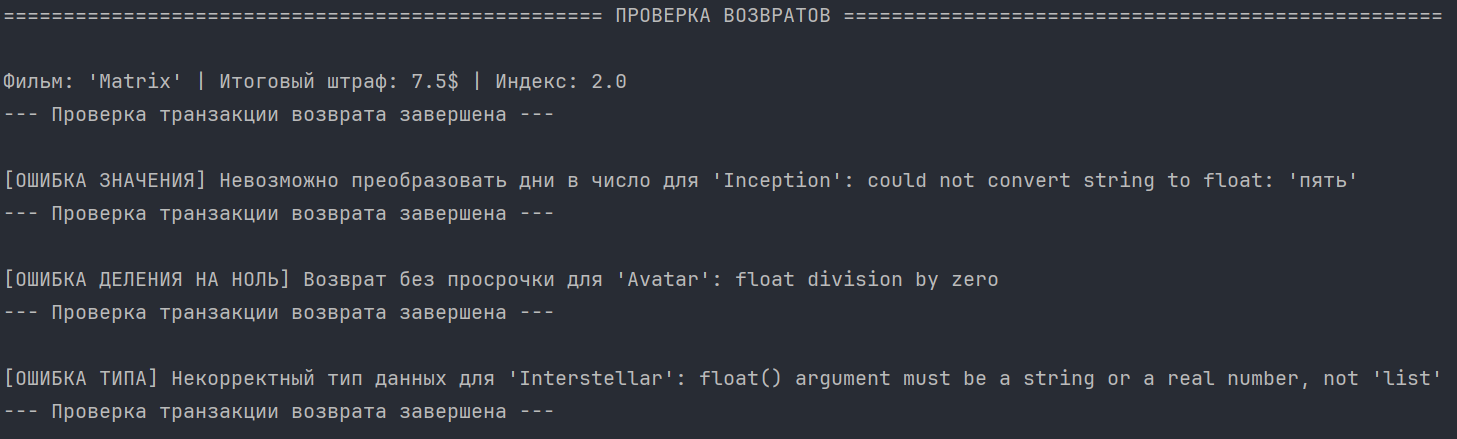
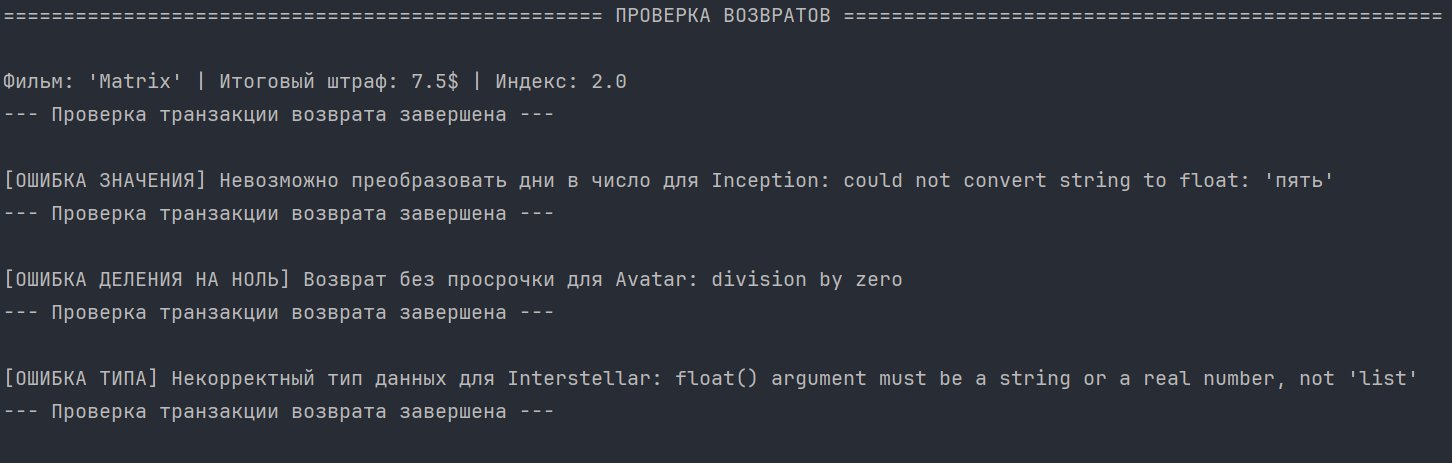
Homework_8_fixed

diff --git a/Homework_8/Task_3/main.py b/Homework_8/Task_3/main.py
@@ -1,12 +1,14 @@
 # TASK 3. Secure refund processing
 # CONSTANTS
+from typing import Any, Tuple, Optional
+
 DEFAULT_RETURN_INDEX_BASE = 10.0
 
 def calculate_overdue_fine(
     movie_title: str,
     days_overdue: Any,
     fine_rate: float
-) -> tuple[float, float] | None:
+) -> Optional[Tuple[float, float]]:
     """Calculates the late payment penalty and the technical index of the refund.
 
         Handles data type errors, inability to convert a string
@@ -29,21 +31,12 @@ def calculate_overdue_fine(
             f"Индекс: {return_index}"
         )
         return total_fine, return_index
-    except TypeError:       # Catches type error
-        print(
-            f"[ОШИБКА ТИПА] Некорректный тип данных для '{movie_title}': "
-            f"float() argument must be a string or a real number, not 'list'"
-        )
-    except ValueError:      # Catches value error
-        print(
-            f"[ОШИБКА ЗНАЧЕНИЯ] Невозможно преобразовать дни в число для "
-            f"'{movie_title}': could not convert string to float: '{days_overdue}'"
-        )
-    except ZeroDivisionError:       # Catches division by zero
-        print(
-            f"[ОШИБКА ДЕЛЕНИЯ НА НОЛЬ] Возврат без просрочки для "
-            f"'{movie_title}': float division by zero"
-        )
+    except TypeError as e:       # Catches type error
+        print(f"[ОШИБКА ТИПА] Некорректный тип данных для {movie_title}: {e}" )
+    except ValueError as e:      # Catches value error
+        print(f"[ОШИБКА ЗНАЧЕНИЯ] Невозможно преобразовать дни в число для {movie_title}: {e}")
+    except ZeroDivisionError as e:       # Catches division by zero
+        print(f"[ОШИБКА ДЕЛЕНИЯ НА НОЛЬ] Возврат без просрочки для {movie_title}: {e}")
     finally:        # Always executes
         print("--- Проверка транзакции возврата завершена ---")
     return None     # Returns None on error
